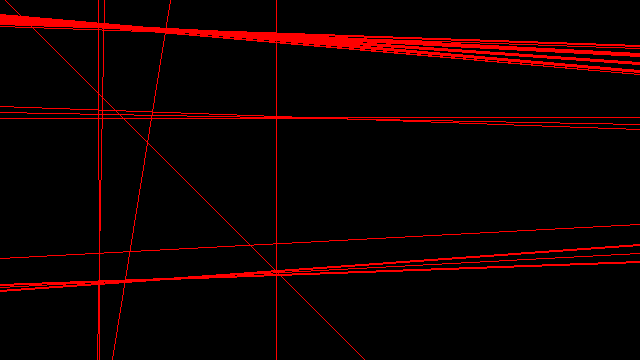
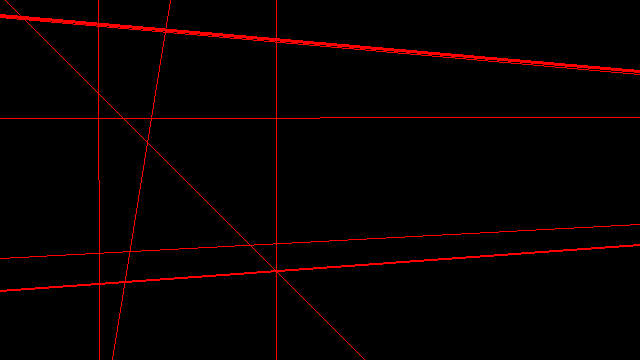
Fixed arctan

diff --git a/dartboard.py b/dartboard.py
@@ -214,7 +214,7 @@ def line_detection_hough_space(gradient_magnitude, gradient_angle, hough_line_gr
     intersection_map = np.zeros((height, width), np.float32)
     lines = []
     angleRange = 1
-    line_combination_threshold = np.deg2rad(0.3)
+    line_combination_threshold = np.deg2rad(10)
 
     print("LD : Calculating rho and theta ")
     print(hough_space.shape)
@@ -261,18 +261,15 @@ def line_detection_hough_space(gradient_magnitude, gradient_angle, hough_line_gr
                 line2 = LineString([line_2[1], line_2[2]])
                 intersect = line1.intersection(line2)
                 if not intersect.is_empty and intersect.geom_type == 'Point':
-                    slope_l1 = (math.pi / 2) if (line_1[2][0] - line_1[1][0] == 0) else np.arctan(
-                        line_1[2][1] - line_1[1][1]) / (line_1[2][0] - line_1[1][0])
-                    slope_l2 = (math.pi / 2) if (line_2[2][0] - line_2[1][0] == 0) else np.arctan(
-                        line_2[2][1] - line_2[1][1]) / (line_2[2][0] - line_2[1][0])
+                    slope_l1 = (math.pi / 2) if (line_1[2][0] - line_1[1][0] == 0) else np.arctan((line_1[2][1] - line_1[1][1]) / (line_1[2][0] - line_1[1][0]))
+                    slope_l2 = (math.pi / 2) if (line_2[2][0] - line_2[1][0] == 0) else np.arctan((line_2[2][1] - line_2[1][1]) / (line_2[2][0] - line_2[1][0]))
                     if (abs(slope_l2 - slope_l1) < line_combination_threshold):
-                        line_2[0] = -1
+                        line_1[0] = -1
                     elif (abs(slope_l2 - slope_l1) >= line_combination_threshold):
-                        if int(intersect.y) < height and int(intersect.x) < width and int(intersect.y) >= 0 and int(
-                                intersect.x) >= 0:
+                        if int(intersect.y) < height and int(intersect.x) < width and int(intersect.y) >= 0 and int(intersect.x) >= 0:
                             intersection_count += 1
                             intersection_map[int(intersect.y)][int(intersect.x)] += 1
-
+    print(intersection_count)
     for line in lines:
         if line[0] != -1:
             cv2.line(twod_line_space, line[1], line[2], (0, 0, 255), 1)
